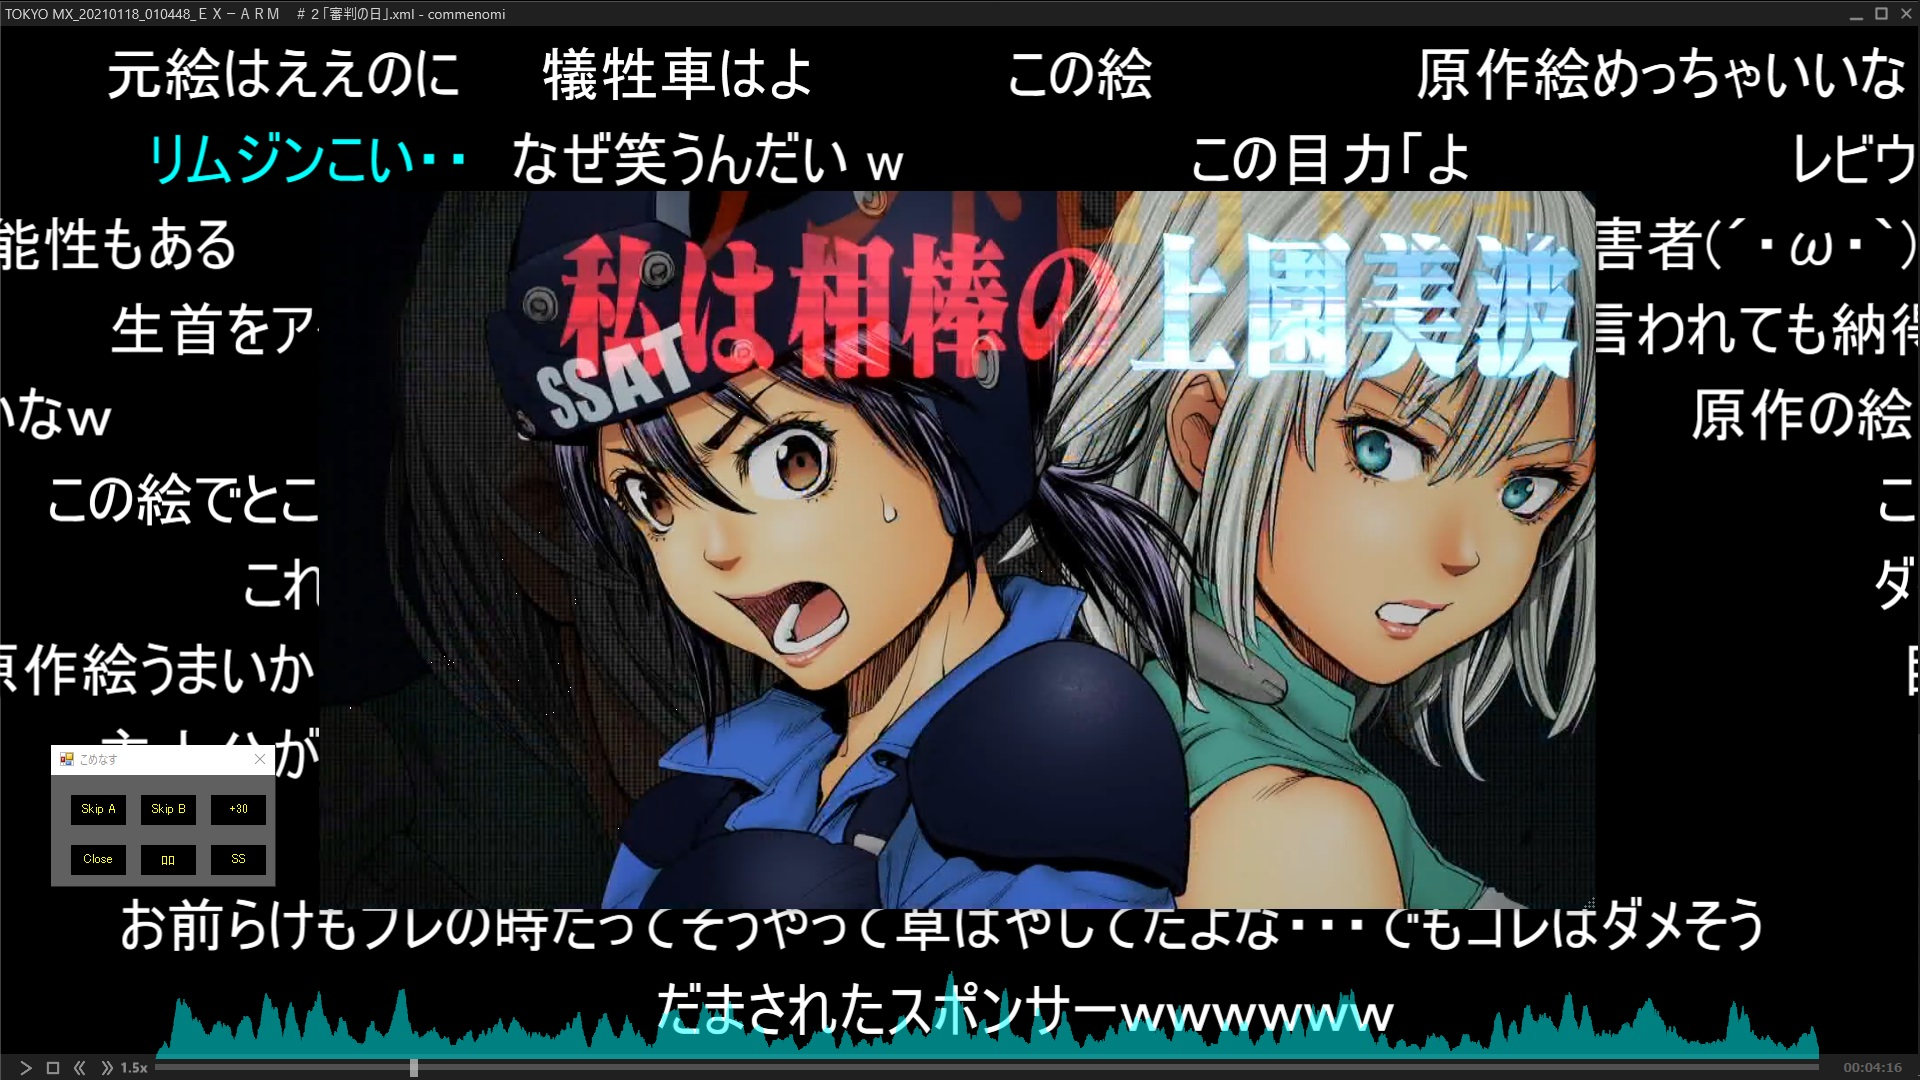
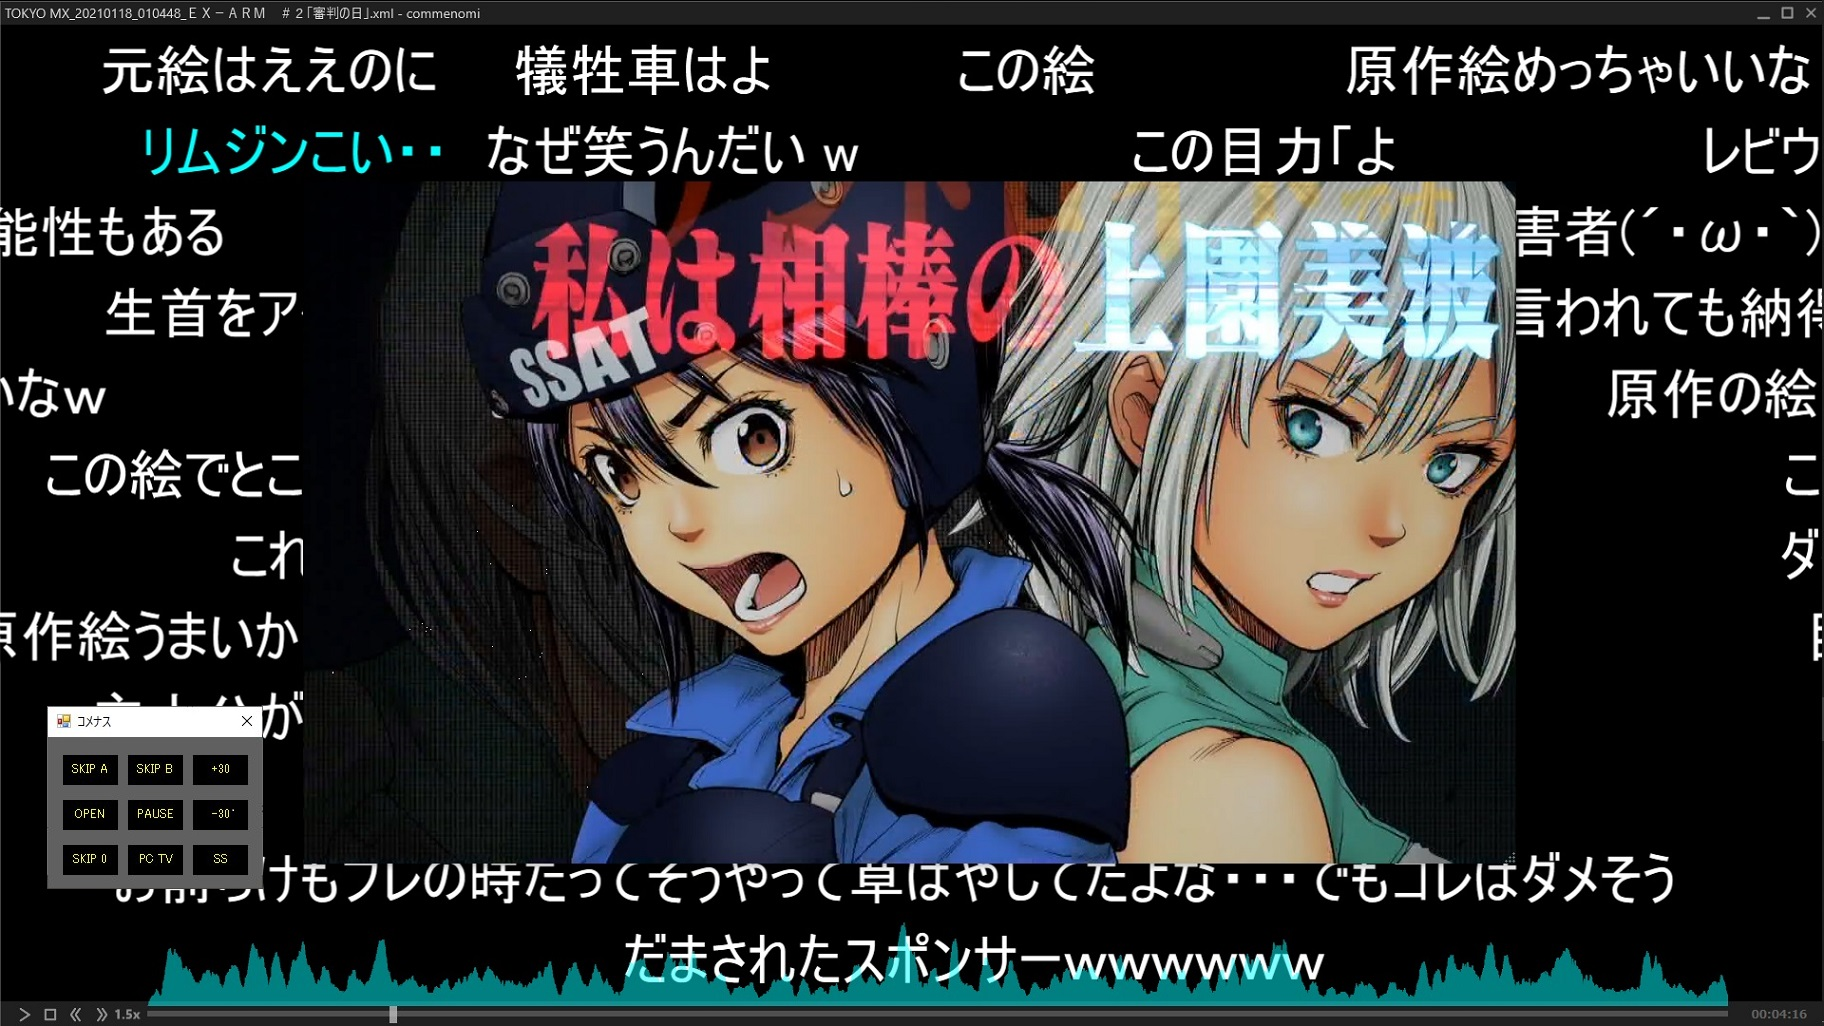
upd README

Changed region(s): [[0.0, 0.6862, 0.1562, 0.8733]]

diff --git a/README.md b/README.md
@@ -1,28 +1,81 @@
-# こめなすプレーヤー について
+# コメナスPlayer について
 <img src="img/screenshot.jpg" alt="EX-ARM" width="60%" height="60%">  
 <span style="font-size: 80%; float: right;">＊画像は「PC TV Plus」と「commenomi」を組み合わせて再生させたイメージです</span>  
 
 
 ## 概要
-komenasneと連携して、PC TV Plusとcommenomiを制御するツールです。
-※基本的に中でどう動いているのか何をやっているのかを理解をしていないと使うのは難しいです。
-Waitの調整なども各々のPCによってソースコードを調整変更しないといけないかもしれません。
+komenasneと連携して、PC TV Plusとcommenomiを制御するツールです。  
+※基本的に中でどう動いているのか何をやっているのかを理解をしていないと使うのは難しいです。  
+Waitの調整なども各々のPCによってソースコードを調整変更しないといけないかもしれません。  
+  
+## komenasplayerの設定
+以下のフォルダ配置を前提にしています。  
+異なる場合はkomenasplayer_config.ps1をテキストエディタで開いて修正してください。
 
-## 設定
-以下の2ファイルをkomenasne.exeが入ったフォルダに入れてください。
-komenasplayer.bat
-komenasplayer.ps1
-
-komenasplayer.batのショートカットをデスクトップ等、使いやすいところに配置してください。
-
+    ├─commenomi  
+    │  └─commenomi.exe  
+    ├─komenasne  
+    │  ├─komenasne.exe  
+    │  ├─komenasne.ini  
+    │  └─kakolog  
+    └─komenasplayer  
+        ├─komenasplayer.bat  
+        ├─komenasplayer.ps1  
+        ├─komenasplayer_config.ps1  
+        └─screenshot  
+  
+komenasplayer.batのショートカットをデスクトップ等、使いやすいところに配置してください。  
+  
+## PC TV Plusの設定
+「アプリの設定」→「画面表示と操作性」を選んで以下のように修正してください。  
+常に最前面で表示する（ウィンドウモード）にチェックされていた場合、チェックを外す  
+常に最前面で表示する（全画面モード）にチェックされていた場合、チェックを外す  
+  
+「アプリの設定」→「番組の再生」を選んで以下のように修正してください。  
+早見再生の速度を1.5倍に設定  
+フラッシュ (+) を30秒に設定  
+フラッシュ (-) を15秒に設定  
+  
+## commenomiの設定
+-共通設定
+再生速度を1.5倍に設定（倍速再生しない場合は不要）
+「操作パネルを常に表示する」に設定
+- torneと似たモードで再生する場合
+「このウィンドウを常に最前面に」のチェックを*外す*
+「透過方式」を「透過しない」に設定
+<img src="img/niconico_mode.jpg">  
+- ニコニコ動画と似たモードで再生する場合
+「このウィンドウを常に最前面に」のチェックを*付ける*
+「透過方式」を「Windows Aero(推奨)」に設定
+  
 # 使い方
-komenasplayer.batを実行すると起動します。
-トルネ風の画面配置が必要です。[komenasneでトルネっぽく実況コメント付きでnasneの動画を再生させる](https://note.com/kamm/n/n8a519502718c)を参考にしてください。
+komenasplayer.batを実行すると起動します。  
+PC TV Plusで動画を再生したあとに、気持ちゆっくりめでコメナスPlayerの「OPEN」をクリックしてください。  
+動画の再生が終わったら、先程のOPENがCLOSEに変化しているので「CLOSE」をクリックしてください。  
 
-<img src="img/image.png">  
-「Skip A」次のチャプターとAのコメントまで移動します
-「Skkp B」次のチャプターとBのコメントまで移動します
-「Open」動画を再生したあとにクリックするとkomenasneと連携してcommenomiが開き、PC TV Plusを倍速再生に変更します。
-「Close」Openを押すとCloseに変わります。commenomiを閉じて、動画の再生を終了します。
-「ﾛﾛ」動画とコメントの再生を一時停止します
-「SS」スクリーンショットを保存します
+<img src="img/image.jpg">  
+※重要な仕様
+「OPEN」を押したあと、もしくはボタンの外のグレーの部分をクリックすると小さくなって半透明になります。  
+半透明のところにマウスカーソルを乗せると、もとの大きさに戻りますので、見失わないでください。  
+
+- 「SKIP A」次のチャプターとAのコメントまでスキップします（アニメ作品限定）  
+- 「SKIP B」次のチャプターとBのコメントまでスキップします（アニメ作品限定）  
+- 「+30」30秒早送りします  
+- 「-30」30秒巻き戻しします  
+- 「PAUSE」動画とコメントの再生を一時停止します  
+- 「OPEN」動画を再生したあとにクリックするとkomenasneと連携してcommenomiが開き、PC TV Plusを倍速再生に変更します  
+- 「CLOSE」Openを押すとCloseに変わります。commenomiを閉じて、動画の再生を終了します  
+- 「SKIP 0」再生位置をはじめに戻します  
+- 「PC TV」PC TV Plusを起動します。すでに起動済みの場合は再起動します  
+- 「SS」スクリーンショットを取得します。画像はscreenshotフォルダに保存されます。  
+  
+<img src="img/right_click.png">  
+「右クリック」以下のメニューが表示されます。  
+- 「動画サイズ S」
+- 「動画サイズ M」
+- 「動画サイズ L」
+- 「動画サイズ FULL」（commenomiのコメント表示を半透明にして、最前列で再生にチェックをしてください）  
+- 「過去ログファイルを開く」kakologフォルダに保存された、すでに取得済みの過去ログファイルを開きます。  
+<img src="img/title_get.jpg">  
+- 「チャンネルと日時を指定」nasneを参照せず、チャンネルと日時を指定して実況コメントを取得します。ネット配信の番組などの視聴時に便利です。  
+- 「OPEN CLOSE 切り替え」コメナスPlayerを終了してしまった場合などに、OPENをCLOSEに戻すときなどに使用します。  
